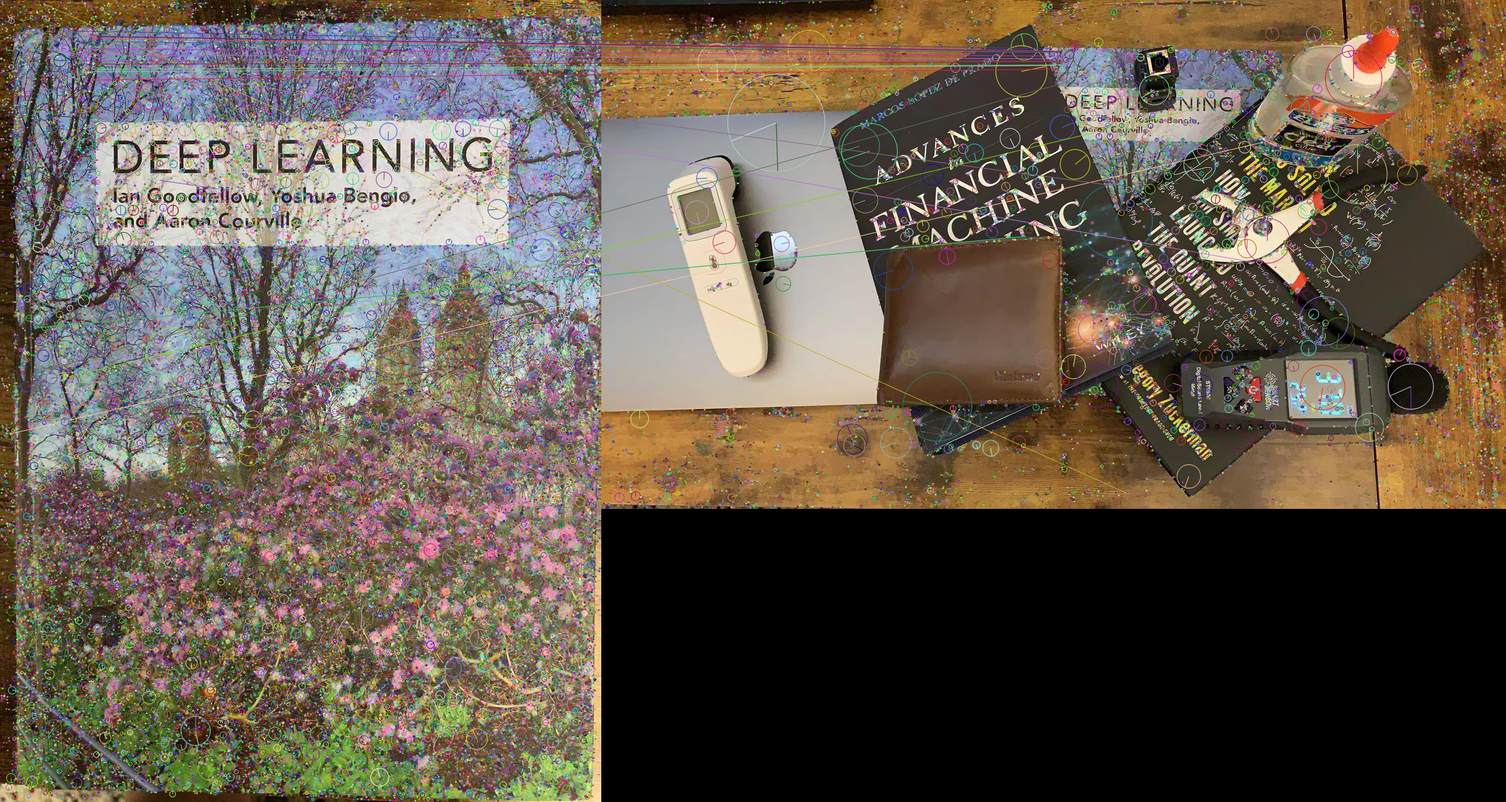
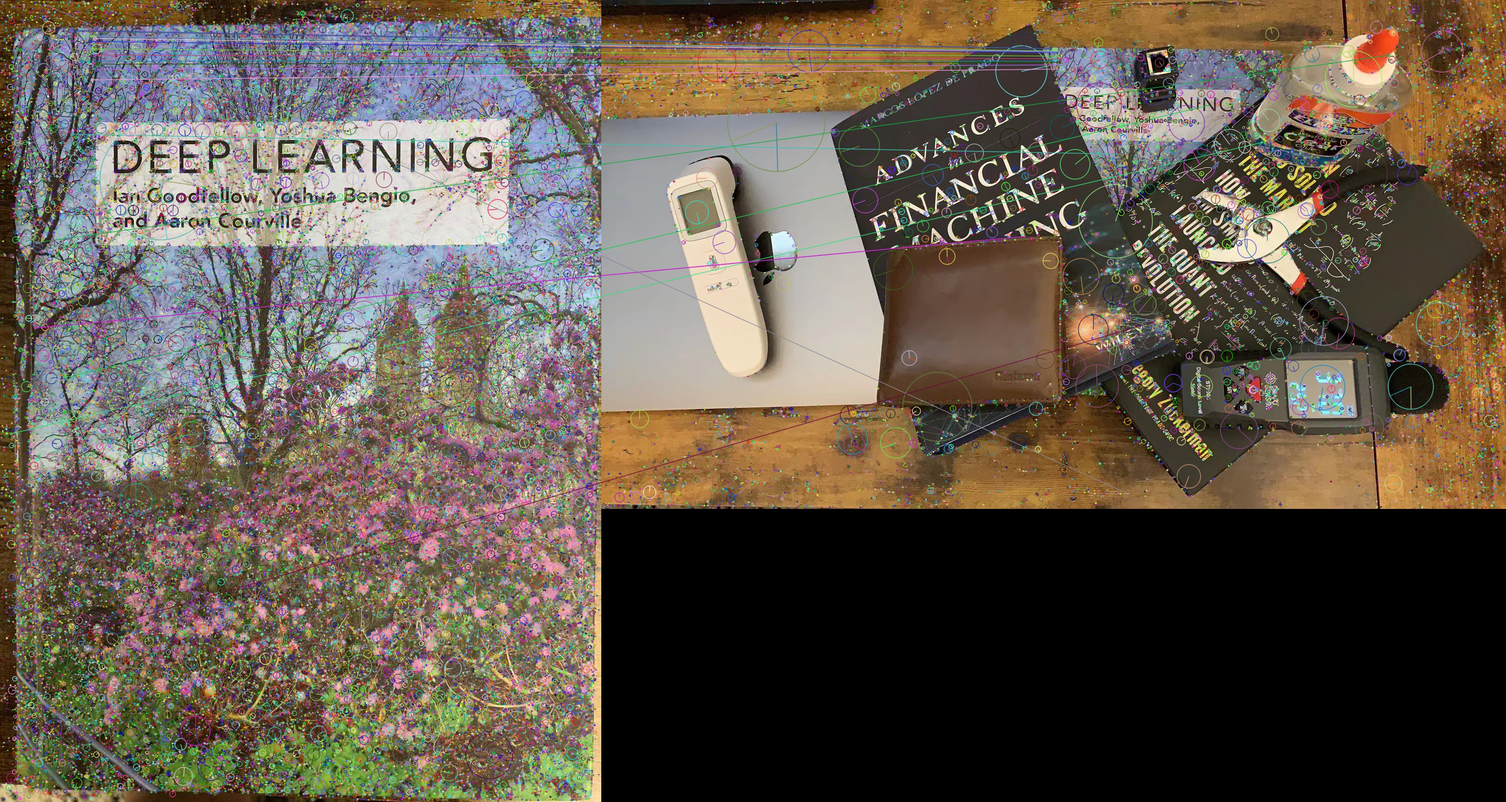
matrix added

diff --git a/sift_ransac.py b/sift_ransac.py
@@ -13,16 +13,10 @@ def sift_generator(img, img_id):
 
   sift = cv2.SIFT_create()
   keypoints, descriptors = sift.detectAndCompute(img, None)
+  print("Number of SIFT features in {}: {}".format(img_id,len(keypoints)))
 
   # sketching the detected key points
   sift_image = cv2.drawKeypoints(gray, keypoints, np.array([]), flags=cv2.DRAW_MATCHES_FLAGS_DRAW_RICH_KEYPOINTS)
-  #cv2.drawKeypoints(gray, keypoints, img)
-
-  
-  # # # show the image
-  # cv2.imshow('image', sift_image)
-  # cv2.waitKey()
-
 
   # save the image
   cv2.imwrite("Results/"+img_id+"_general_sift.jpg", sift_image)
@@ -31,10 +25,10 @@ def sift_generator(img, img_id):
 
 def matcher(desc_s,desc_d):
 
-
   bf = cv2.BFMatcher()
 
   matches = bf.knnMatch(desc_s, desc_d, k=2)
+  print("Number of Matches: {}".format(len(matches)))
 
 
   # Apply ratio test
@@ -43,6 +37,7 @@ def matcher(desc_s,desc_d):
       if m.distance < 0.7*n.distance:
           good.append(m)
   
+  print("Number of Good Matches: {}".format(len(good)))
   return good
 
 def homographer(kp1, kp2, src_img, dst_img, good):
@@ -53,7 +48,12 @@ def homographer(kp1, kp2, src_img, dst_img, good):
     dst_pts = np.float32([kp2[m.trainIdx].pt for m in good]).reshape(-1,1,2)
 
     M, mask = cv2.findHomography(src_pts, dst_pts, cv2.RANSAC,5.0)
+
+    print("M Matrix is: {}".format(M))
+
+
     matchesMask = mask.ravel().tolist()
+    print("Number of RANSAC Matches: {}".format(sum(matchesMask)))
 
     h,w,d = src_img.shape
     pts = np.float32([ [0,0],[0,h-1],[w-1,h-1],[w-1,0] ]).reshape(-1,1,2)
@@ -79,27 +79,29 @@ def main():
   
     img_list = os.listdir(img_dir)
 
+
     for img_path in img_list:
+        
+        seen=[]
 
         """
         Load the image file here through cv2.imread
         """
         img_id = img_path[:-4]
-        if img_id[0]=='d': continue
+
+        if img_id[0]=='d' or img_id in seen: continue
+        seen.append(img_id)
         img_name = os.path.join(img_dir, img_path)
         img_src = cv2.imread(img_name)          
         key_src, desc_src = sift_generator(img_src, img_id)
         
         for dest_path in img_list:
           dest_id = dest_path[:-4]
-          if dest_id[0]=='s': continue
+          if dest_id[0]=='s' or dest_id in seen: continue
+          seen.append(dest_id)
 
           dest_name = os.path.join(img_dir, dest_path)
           img_dest = cv2.imread(dest_name)          
-          key_dst, desc_dst = sift_generator(img_dest, dest_id)
-
-
-
           key_dst, desc_dst = sift_generator(img_dest, dest_id)
 
           good = matcher(desc_src, desc_dst)
@@ -108,20 +110,18 @@ def main():
           img_match_show = cv2.drawMatches(img_src,key_src,img_dest,key_dst,good[0:21],None,flags=cv2.DRAW_MATCHES_FLAGS_DRAW_RICH_KEYPOINTS)
 
           cv2.imwrite("Results/src_"+img_id[-1]+"_dst_"+dest_id[-1]+"_all_matches.jpg", img_match_show)
-          # cv2.imshow("image", img_match)
-          # cv2.waitKey()
 
           img_dest, matchesMask = homographer(key_src, key_dst, img_src, img_dest, good)
+          
 
-          draw_params = dict(matchColor = (0,255,0), # draw matches in green color
+          draw_params = dict(
                             singlePointColor = None,
                             matchesMask = matchesMask, # draw only inliers
-                            flags = 2)
-          final_img = cv2.drawMatches(img_src,key_src,img_dest,key_dst,good,None,flags=cv2.DRAW_MATCHES_FLAGS_DRAW_RICH_KEYPOINTS,**draw_params)
+                            flags = cv2.DRAW_MATCHES_FLAGS_DRAW_RICH_KEYPOINTS)
+          final_img = cv2.drawMatches(img_src,key_src,img_dest,key_dst,good,None,**draw_params)
           cv2.imwrite("Results/src_"+img_id[-1]+"_dst_"+dest_id[-1]+"_ransac_homography.jpg", final_img)
           
-          # cv2.imshow('image', final_img)
-          # cv2.waitKey()
+
 
 if __name__== "__main__":
   main()
